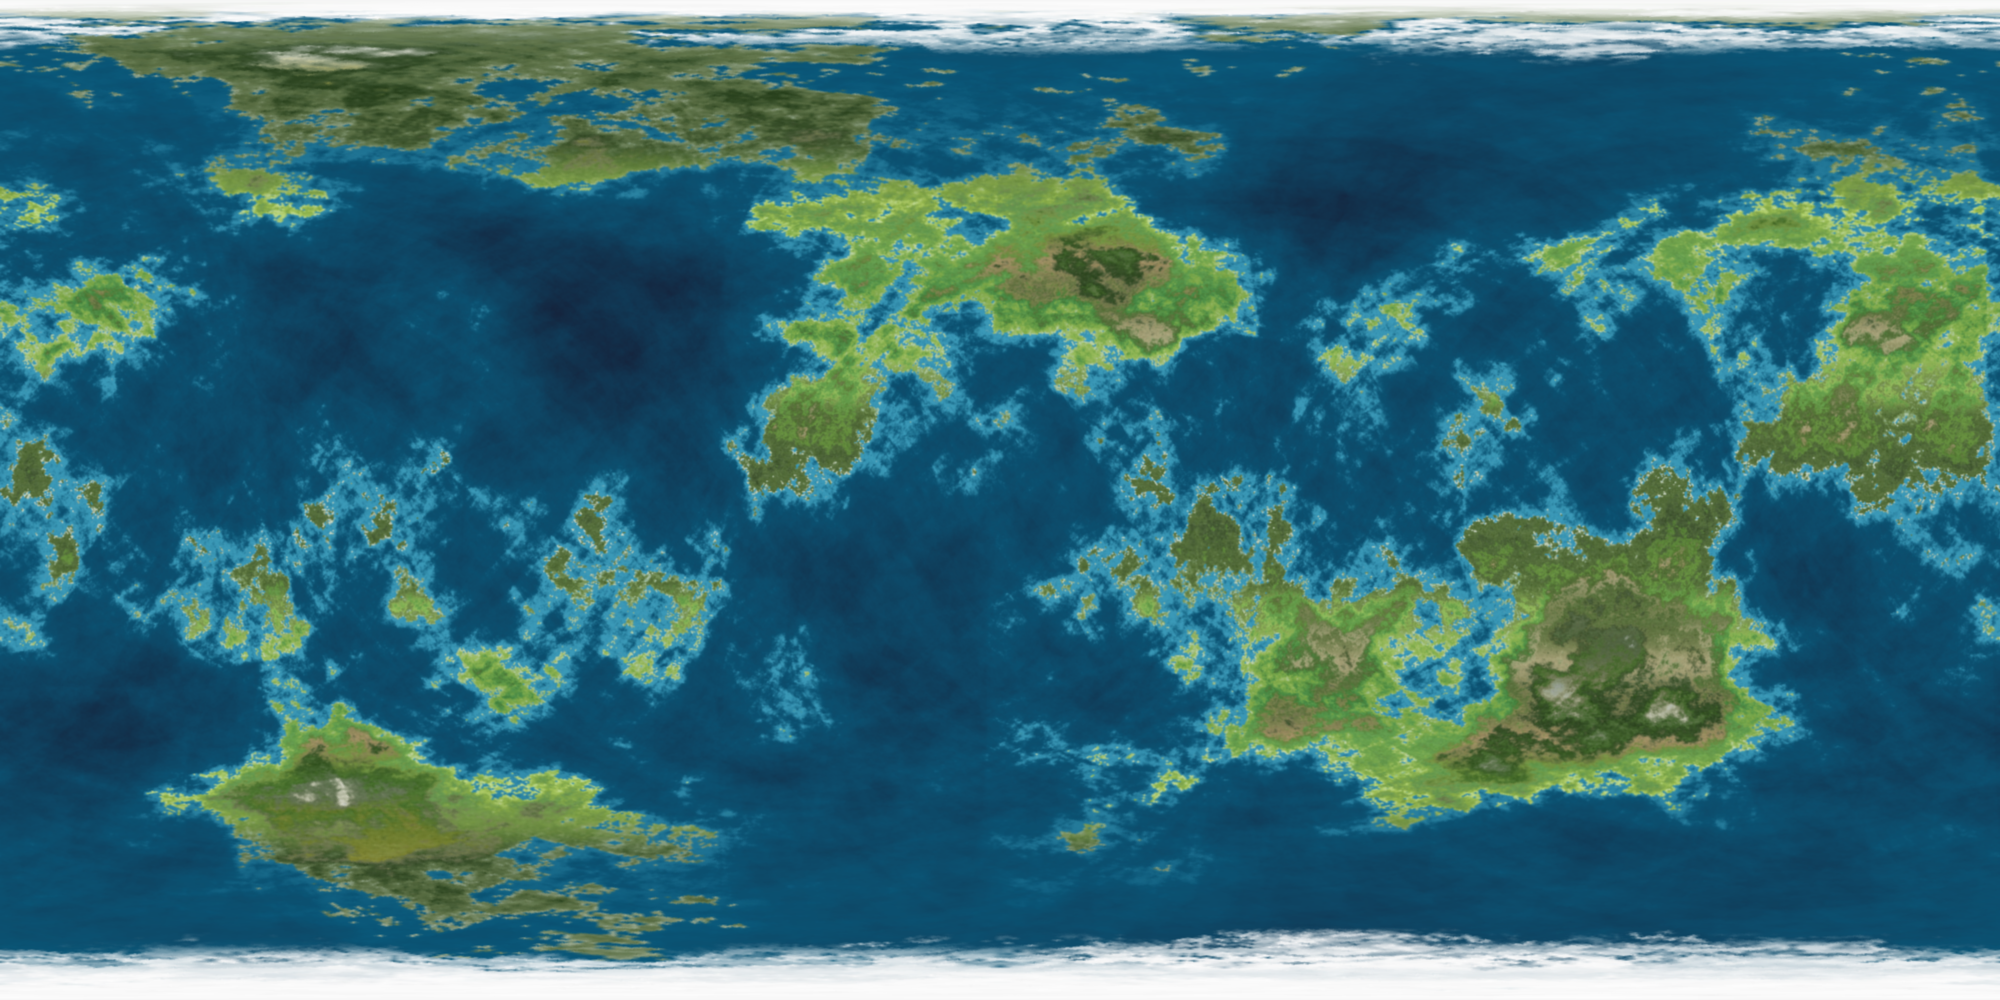
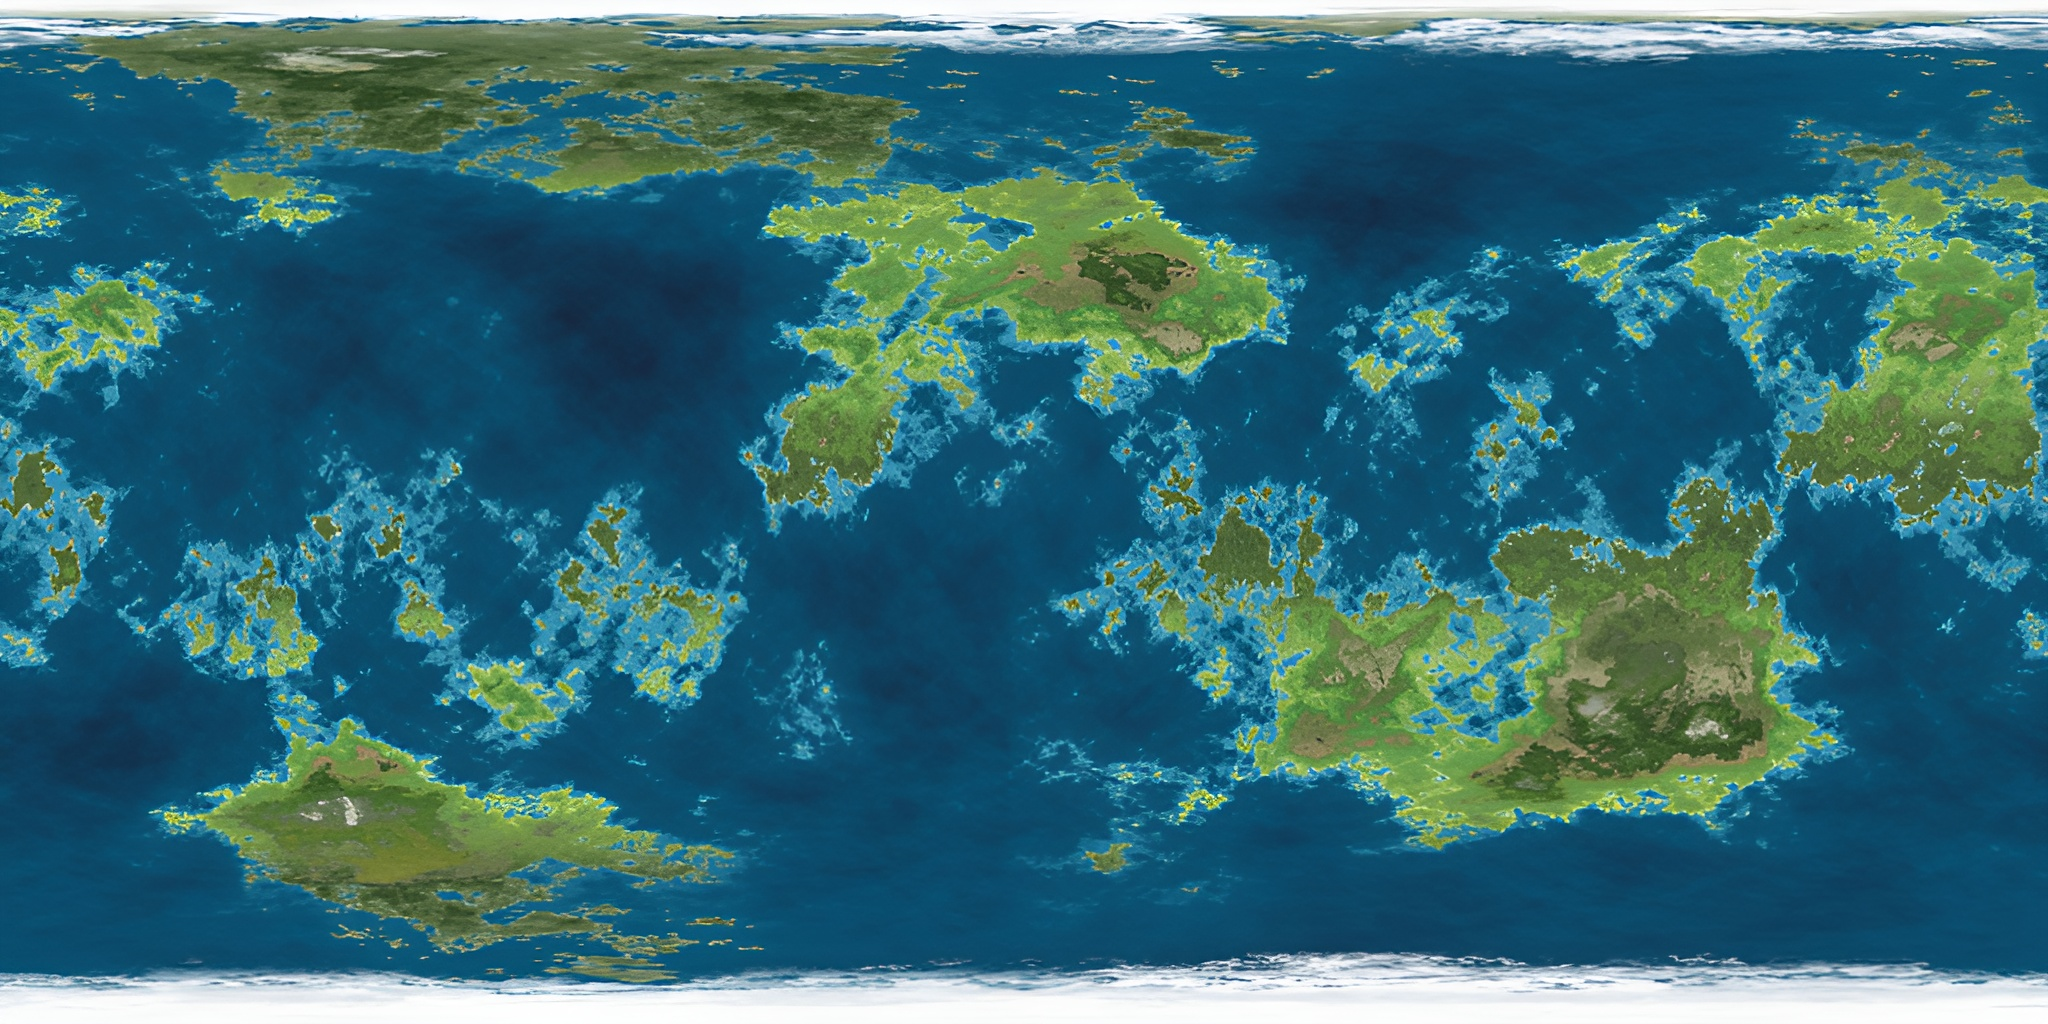
added large central planet

diff --git a/src/App.tsx b/src/App.tsx
@@ -2,6 +2,7 @@ import { Canvas } from '@react-three/fiber'
 import {Bloom, EffectComposer} from "@react-three/postprocessing";
 import RotatingSun from "./components/RotatingSun.tsx";
 import OrbitingPlanet from "./components/OrbitingPlanet.tsx";
+import ClippedPlanet from "./components/ClippedPlanet.tsx";
 
 
 // 2. Export a new App component that renders the Canvas
@@ -9,18 +10,24 @@ export default function App() {
   return (
     <div style={{ height: '100vh', width: '100vw', margin: '0px' }}>
       <Canvas dpr={[1, 1]}>
-          <EffectComposer autoClear={false} multisampling={0}>
-              <Bloom luminanceThreshold={1} intensity={1.5} selectable />
-          </EffectComposer>
-          <RotatingSun />
+          {/*<EffectComposer autoClear={false} multisampling={0}>*/}
+          {/*    <Bloom luminanceThreshold={1} intensity={1.5} selectable />*/}
+          {/*</EffectComposer>*/}
+          {/*<RotatingSun />*/}
 
-          <OrbitingPlanet texture_path={'materials/volcanic.png'} scale={.25} radius={1.5} speed={1}/>
+          {/*<OrbitingPlanet texture_path={'materials/volcanic.png'} scale={.25} radius={1.5} speed={1}/>*/}
 
-          <OrbitingPlanet texture_path={'materials/terrestrial.png'} scale={.33} radius={2.5} speed={.5}/>
+          {/*<OrbitingPlanet texture_path={'materials/terrestrial.png'} scale={.33} radius={2.5} speed={.5}/>*/}
 
-          <OrbitingPlanet texture_path={'materials/gaseous.png'} scale={1} radius={5} speed={.33}/>
+          {/*<OrbitingPlanet texture_path={'materials/gaseous.png'} scale={1} radius={5} speed={.33}/>*/}
+
+
+          <ClippedPlanet />
 
           <ambientLight intensity={0.5} />
+
+
+          {/*<OrbitingPlanet texture_path={'materials/terrestrial.png'} scale={4.5} radius={2.5} speed={0}/>*/}
       </Canvas>
     </div>
   )

diff --git a/src/components/ClippedPlanet.tsx b/src/components/ClippedPlanet.tsx
@@ -1,0 +1,49 @@
+import {useFrame, useThree} from "@react-three/fiber";
+import type {Mesh} from "three";
+import {useTexture} from "@react-three/drei";
+import {useRef} from "react";
+import * as THREE from "three";
+
+export default function ClippedPlanet(){
+    const texture = useTexture('materials/terrestrial.png');
+    const cloudTexture = useTexture('materials/clouds.png');
+    const meshRef = useRef<Mesh>(null!)
+    const { viewport } = useThree()
+
+
+    useFrame((_state, delta) => {
+        if (meshRef.current) {
+            meshRef.current.rotation.x += delta * 0.02;
+        }
+    });
+
+    const radius = viewport.width * 2
+
+
+    const xPos = -5
+    const yPos = -viewport.width * 2.1
+    const zPos = -radius + 25
+
+    return (
+
+
+    <group position={[xPos, yPos, zPos]} ref={meshRef}>
+        <mesh >
+            <sphereGeometry args={[radius, 64, 64]} />
+            <meshStandardMaterial
+                map={texture}
+            />
+        </mesh>
+
+        <mesh scale={[1.01, 1.01, 1.01]}>
+            <sphereGeometry args={[radius, 64, 64]} />
+            <meshStandardMaterial
+                map={cloudTexture}
+                transparent={true}
+                opacity={0.8}
+                blending={THREE.AdditiveBlending}
+            />
+        </mesh>
+    </group>
+    )
+}
